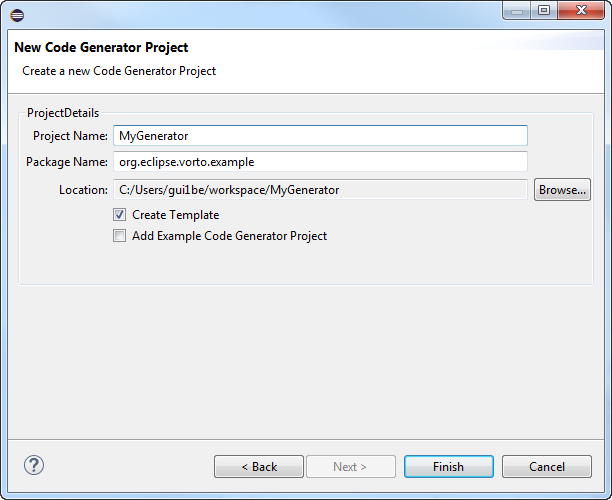
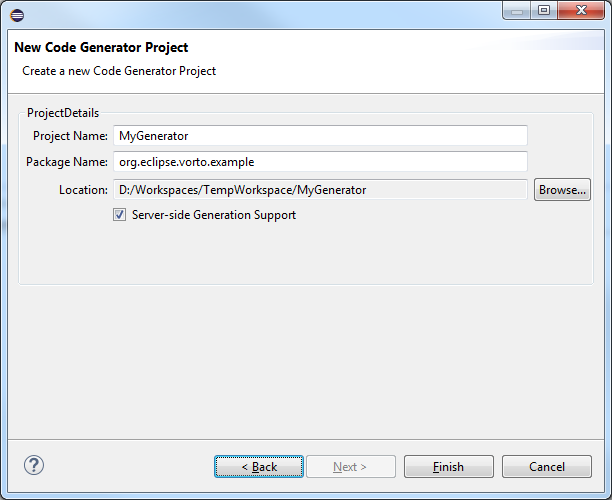
Updated the screenshots and documentation for implementing a code generator. Closes point 1 of #170.

diff --git a/docs/documentation/developer-api/codegenerator-implementation.md b/docs/documentation/developer-api/codegenerator-implementation.md
@@ -28,10 +28,7 @@ You have started your IDE.
 2. In the field **Project name**, enter a project name.  
    ![new Code Generator plug-in project]({{base}}/img/documentation/vorto_new_codegen_project.png)
 3. Click **Finish**.  
-   The next sb dialog opens.
-4. Enter relevant data into the fields accrording to your needs and click **Finish**.
-5. If the **Open Assiciated Perspective?** dialog opens click **YES** to open the **Plug-in Development** perspective.  
-   The new plug-in project is now generated. All dependencies required by the new project, as well as default classes and configuration files are generated.  
+4. The new plug-in projects **org.eclipse.vorto.example.mygenerator** and **org.eclipse.vorto.example.service** are now generated. All dependencies required by the new project, as well as default classes and configuration files are generated.  
 
    ![Default Code Generator plug-in project]({{base}}/img/documentation/vorto_codegen_default.png)
 
